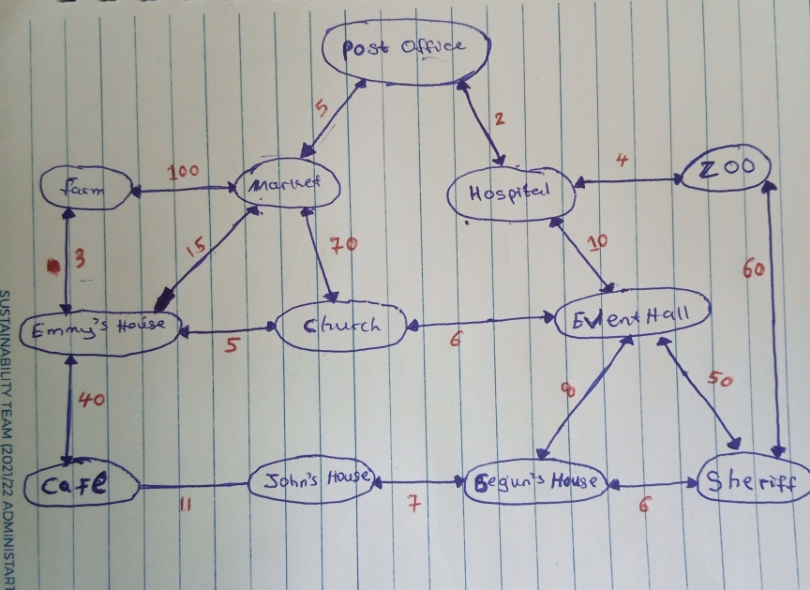
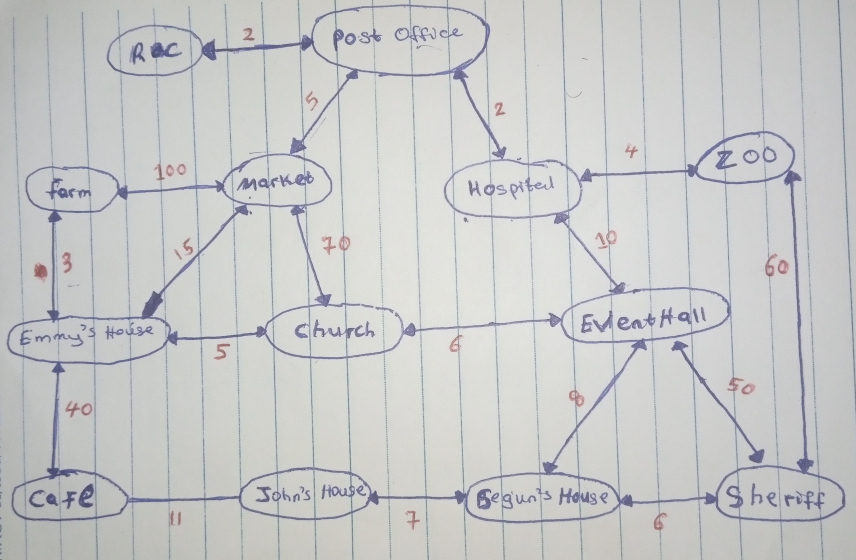
COMMENT ADDED

diff --git a/robot_brain.js b/robot_brain.js
@@ -1,4 +1,4 @@
-// THIS IS ROBOT BRAIN PROGRAM DEPARTMENT RBP WHERE I AM WORKING AND ALSO THE MANAGER
+// THIS IS ROBOT BRAIN PROGRAM DEPARTMENT RBP WHERE I AM WORKING AND ALSO THE MANAGER 😂😂
 import Knowhere, { roads, mailRoute } from "./know_where_village.js";
 const village = new Knowhere().addVillageEdges(roads);
 class RobotBrain {
@@ -23,7 +23,7 @@ class RobotBrain {
             const { at, route, dist } = smallestDistNode;
             for (const node in graph[at]) {
                 const edgeDist = dist + graph[at][node][0]; // DISTANCE FROM CURRENT NODE TO NEXT NODE
-                if (edgeDist < graph[at][node][1] && node != route[route.length - 1]) { //  IF THE (DISTANCE FROM CURRENT NODE TO NEXT NODE) IS LESS THAN INITIAL VALUE (INFINITY) UPDATE THE NEXT NODE WITH EDGE_DIST
+                if (edgeDist < graph[at][node][1] && node != route[route.length - 1]) { //  IF THE (DISTANCE FROM CURRENT NODE TO NEXT NODE) IS LESS THAN INITIAL VALUE (INFINITY BY DEFAULT) UPDATE THE NEXT NODE WITH EDGE_DIST
                     graph[at][node][1] = edgeDist;
                     save.push({ at: node, route: route.concat(node), dist: edgeDist, checked: false });
                     if (to?.has(node)) allRoutes.push({ dist: edgeDist, route: route.concat(node) });
@@ -39,9 +39,9 @@ class RobotBrain {
         return { dist: village[state.location][destination][0], route: [destination] };
     }
     static fixedRouteRobot() {
-        return { dist: 402, route: mailRoute.map(node => node) };
+        return { dist: 404, route: mailRoute.map(node => node) };
     }
-    static RouteGeneratorRobot(state) {
+    static RouteGeneratorRobot(state) { // IMPLEMENTING BFS ALGORITHM
         const queue = [{ at: state.location, route: [], dist: 0 }];
         const destinations = RobotBrain.possibleDestinations(state);
         for (const front of queue) {
@@ -55,7 +55,7 @@ class RobotBrain {
         }
     }
 
-    static shortestRouteRobot(state) {
+    static shortestRouteRobot(state) { // THESE FUNCTION INVOKES THE DIKJISTRA AND THE POSSIBLE_DESTINATION FUNCTIONS
         const routes = RobotBrain.dikjistra(state.location, RobotBrain.possibleDestinations(state));
         let shortestDistRoute = null, inf = Infinity, memo = {};
         for (const { dist, route } of routes) {
@@ -72,7 +72,5 @@ class RobotBrain {
         }
         return shortestDistRoute;
     }
-
-
 }
 export default RobotBrain;

diff --git a/robot_brawn.js b/robot_brawn.js
@@ -6,19 +6,23 @@ class RobotBrawn {
         this.parcels = parcels;
     }
     move(destination) {
+        // THE ROBOT MOVE FROM NODE TO NODE. IF THE LOCATION OF THE ROBOT IS EQUAL TO ANY PARCEL'S LOCATION THEN THE ROBOT CARRY THE PERCEL TO EVERY OF ITS JOURNEY UNTILL THIS IS WHAT THE MAP ARRAY METHOD DOES.
+        // IF THE ADDRESS OF THE ROBOT IS EQUAL TO THE LOCATION OF THE ROBOT. THEN THE PARCEL HAS GOTTEN TO ITS ADDRESS BEING MEANT TO BE SENT TO, SO IT IIS OFFLOADED. THIS WHAT THE FILTEER ARRAY METHOD DOES.
         if (!village[this.location][destination]) return this;
         const parcels = this.parcels.map(({ location, address }) =>
             location == this.location ? { location: destination, address } : { location, address }
         ).filter(({ address, location }) => address != location);
         return new RobotBrawn(destination, parcels);
     }
-    static generateParcels(parcelCount = 100) {
+    static robotApp(parcelCount = 100) { 
+        // THIS WHERE THE VILLAGERS REGISTER THEIR PARCELS. THEY STATE THE LOCATION AND THE ADDRESS OF THE PARCEL
         const allVillageNodes = Object.keys(village);
         const parcels = [];
         for (let i = 0; i < parcelCount; i++) {
             const location = allVillageNodes[Math.random() * allVillageNodes.length >> 0];
             let address = allVillageNodes[Math.random() * allVillageNodes.length >> 0];
-            while (location == address) address = allVillageNodes[Math.random() * allVillageNodes.length >> 0];
+            // ADDRESS AND LOCATION CAN'T BE THE SAME. I.E SEGUN CANNOT SEND PARCEL TO HIMSELF
+            while (location == address) address = allVillageNodes[Math.random() * allVillageNodes.length >> 0]; 
             parcels.push({ location, address });
         }
         return new RobotBrawn("Post Office", parcels);

diff --git a/robot.js b/robot.js
@@ -1,7 +1,7 @@
 import RobotBrawn from "./robot_brawn.js";
 import RobotBrain from "./robot_brain.js";
 
-const runRobot = (robot, RobotBrain, memory = { route: [], dist: 0 }) => {
+const runRobot = (robot, RobotBrain, memory = { route: [], dist: 0 }) => { // THE ROBOT IN ACTION
     let distance = 0, len = robot.parcels.length;
     for (let turn = 0; ; turn++) {
         if (robot.parcels == 0) {
@@ -9,16 +9,16 @@ const runRobot = (robot, RobotBrain, memory = { route: [], dist: 0 }) => {
             return (`Done! Moved ${len} parcels in ${turn} turns and in ${distance} Km`);
         }
         if (!memory.route.length) { memory = RobotBrain(robot); distance += memory.dist; }
-        let destination = memory.route.shift();
+        const destination = memory.route.shift();
         console.log(`   Moved from ${robot.location} to ${destination}`);
         robot = robot.move(destination);
     }
 };
-const parcel = RobotBrawn.generateParcels(Math.random() * 200 >> 0);
+const parcel = RobotBrawn.robotApp(Math.random() * 200 >> 0);
 const done = [
     ["random route robot", runRobot(parcel, RobotBrain.randomRouteRobot)], // implements Math.random function
     ["fixed route robot", runRobot(parcel, RobotBrain.fixedRouteRobot)], // implement fixed mail route
     ['route generator robot', runRobot(parcel, RobotBrain.RouteGeneratorRobot)],// implement BFS algorithm
     ["shortest route robot", runRobot(parcel, RobotBrain.shortestRouteRobot)], // implement dijkstra algorithm
 ];
-for (let turnsAndDist of done) console.log(turnsAndDist);
+for (const turnsAndDist of done) console.log(turnsAndDist);

diff --git a/know_where_village.js b/know_where_village.js
@@ -2,13 +2,13 @@ export const roads = [
     "Post Office-Hospital-2", "Post Office-Market-5", "Market-Farm-100", "Market-Church-70", "Market-Emmy's House-15",
     "Hospital-Zoo-4", "Hospital-Event Hall-10", "Zoo-Sheriff-60", "Emmy's House-Farm-3", "Emmy's House-Church-5",
     "Emmy's House-Cafe-40", "Church-Event Hall-6", "Event Hall-Sheriff-50", "Event Hall-Segun's House-8",
-    "Sheriff-Segun's House-6", "Segun's House-John's House-7", "John's House-Cafe-11"
+    "Sheriff-Segun's House-6", "Segun's House-John's House-7", "John's House-Cafe-11", "RC-Post Office-2"
 ];
-export const mailRoute = [
-    "Hospital", "Zoo", "Sheriff", "Event Hall", "Segun's House", "John's House",
+export const mailRoute = [ // THIS IS MAIL ROUTE OF THE WHOLE VILLAGE
+    "RC", "Post Office", "Hospital", "Zoo", "Sheriff", "Event Hall", "Segun's House", "John's House",
     "Cafe", "Emmy's House", "Farm", "Market", "Church", "Market", "Post Office",
 ];
-class KnowWhere {
+class KnowWhere { // THIS FUNCTION BUILD GRAPH WHICH WILL REPRESENT OUR VILLAGE
     addVillageEdges(roads) {
         const graph = Object.create(null);
         const addVillageEdges = (from, to, dist) => {

diff --git a/README.md b/README.md
@@ -1,11 +1,12 @@
 # DELIVERY ROBOT 
-In the small Village of __Know Where__. The village is made of __13 houses (nodes) and 18 roads (edges) with distances (weights) which total to 402 kilometeers.__
+In the small Village of __Know Where__. The village is made of __13 houses (nodes) and 18 roads (edges) with distances (weights) which total to 404 kilometeers.__
 
 Each node is a House, or a company, or viewing center or shop. The edges are the roads that leads to those edges and the weights represents the distance of the roads in Kilometers.
 
 The village is small with but the people in there are so lazy, that each person delivering his/her parcels to their neighbours seems pretty much like a big job even taking their mails to the Post office for delivery is no do. The citizens like to be alone doing what they like best, all best known to them. 
 
-The bellow Graph Image shows the whole map of the village.  
+<figcaption>The bellow Graph Image shows the whole map of the village. </figcaption>
+
 ![the graph of know where village](./village_graph.jpg)
 ---
 ## THE ROBOTIC COMPANY AND THE ROBOTS
@@ -26,12 +27,10 @@ Secondly the __Robot__ decides to go deliver all parcels at their respective add
 
  We've programmed four __Robot's Brain__ so far.
 
-<div color="yellow">
-    1. Random Route Robot ( R.R.R )
-    2. Fixed Route Robot ( F.R.R )
-    3. Route Generator Robot ( G.R.R )
-    4. Shortest Route Robot ( S.R.R )
- </div>
+1. __Random Route Robot ( R.R.R )__  
+2. __Fixed Route Robot ( F.R.R )__  
+3. __Route Generator Robot ( G.R.R )__  
+4. __Shortest Route Robot ( S.R.R )__
 
 ### Random Route Robot ( R.R.R )
 This makes it really inefficient
